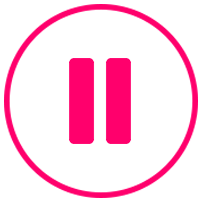
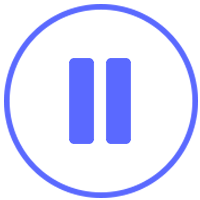
audio inteface functioning with hardcode files

Changed region(s): [[0.0, 0.0, 0.99, 0.99], [0.51, 0.27, 0.66, 0.72], [0.33, 0.27, 0.48, 0.72]]

diff --git a/script.js b/script.js
@@ -1,11 +1,32 @@
-const userFile = document.getElementById
+const playBtn = document.getElementById("playBtn");
 
 
 const wavesurfer = WaveSurfer.create({
     container: '#waveform',
-    waveColor: '#4F4A85',
-    progressColor: '#383351',
-    url: '/audio.mp3',
+    waveColor: '#bdbdbd',
+    progressColor: '#5A69FF',
+    url: 'media/Rain-Sound-effect.mp3',
+    barWidth: 4,
+    responsive: true,
+    barHeight: 4,
+    barRadius: 4,
+    cursorWidth: 4,
+    interact: true
   })
   
-  wavesurfer.load('media/Rain - Sound effect.mp3');
+  wavesurfer.load('media/Rain-Sound-effect.mp3');
+
+  playBtn.onclick = function(){
+    wavesurfer.playPause();
+    if(playBtn.src.includes("play.png")){
+        playBtn.src = "media/pause.png";
+    }else{
+        playBtn.src = "media/play.png";
+    }
+  }
+
+  
+  wavesurfer.on('finish', function(){
+    playBtn.src = "media/play.png";
+    wavesurfer.stop();
+  })

diff --git a/style.css b/style.css
@@ -138,7 +138,7 @@ margin-left: 5vh;
 .populatedDottedOutlineOne{
     border: rgba(90,105,255, .3);   
     border-style: dotted;
-    height: 90%;
+    height: 94%;
     width: 90%;
     margin-top: 3vh;
     border-radius: 15px;
@@ -170,6 +170,11 @@ margin-left: 5vh;
     width: 5vh;
     margin-right: 2vh;
     cursor: pointer;
+    opacity:50%;
+}
+
+.populatedSoundWave img:hover{
+    opacity: 100%;
 }
 
 .populatedSoundWave div{

diff --git a/index.html b/index.html
@@ -29,7 +29,7 @@
                 <p>fileName.filetype</p>
                 <h2>Renameable Field</h2>
                 <div class="populatedSoundWave">
-                    <img src="media/play.png">
+                    <img src="media/play.png" id="playBtn">
                     <div id="waveform"></div>
                 </div>
                <!-- <label>
